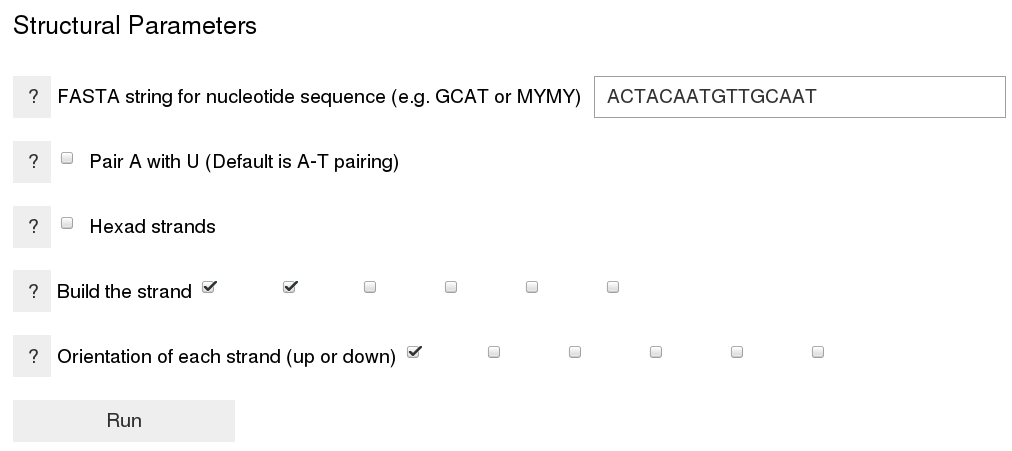
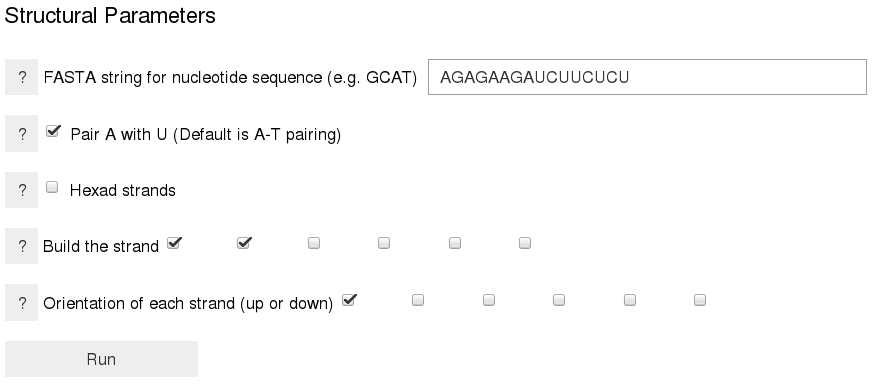
fix residue name

diff --git a/pnab/driver/options.py b/pnab/driver/options.py
@@ -423,7 +423,7 @@ _options_dict['Base']['code'] = {
 _options_dict['Base']['name'] = {
                                   'glossory': 'One-letter base name',
                                   'long_glossory': ('This name is used when specifying the strand sequence. It must not be one of the' +
-                                                    ' names defined in the program library (A, G, C, T, U, M, P, Y).'),
+                                                    ' names defined in the program library (A, G, C, T, U, R, Y).'),
                                   'default': 'R',
                                   'validation': lambda x: str(x),
                                   }
@@ -596,7 +596,7 @@ _options_dict['RuntimeParameters']['energy_filter'] = {
                                                       'validation': lambda x: _validate_energy_filter(x), 
                                                       }
 _options_dict['RuntimeParameters']['strand'] = {
-                                               'glossory': 'FASTA string for nucleotide sequence (e.g. GCAT or PYPY) ',
+                                               'glossory': 'FASTA string for nucleotide sequence (e.g. GCAT) ',
                                                'long_glossory': ('See the Bases section for the defined bases and their one-letter abbreviation.' + 
                                                                  'The canonical nucleobases cannot be mixed with the nucleobases that form the hexad geometries' +
                                                                  ' because they have different standard frame of reference. The names are case-insensitive.'),
